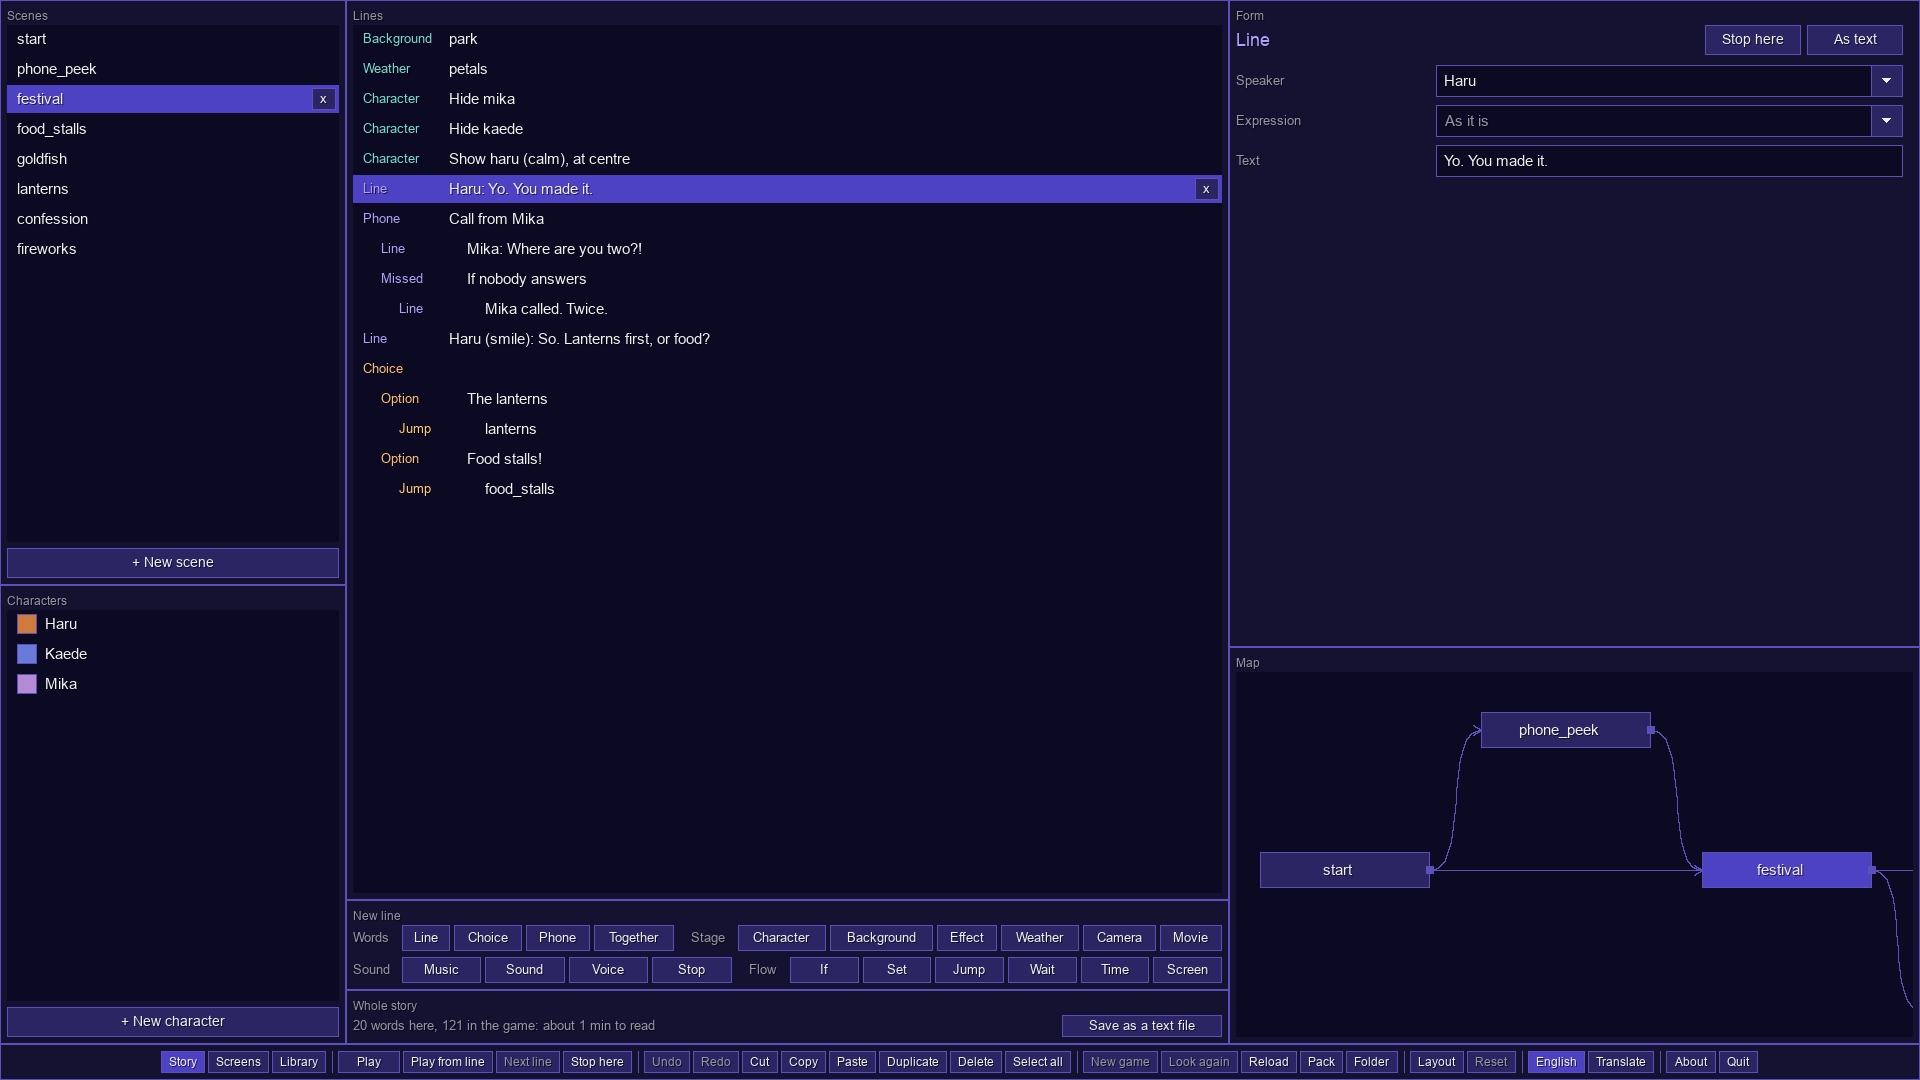
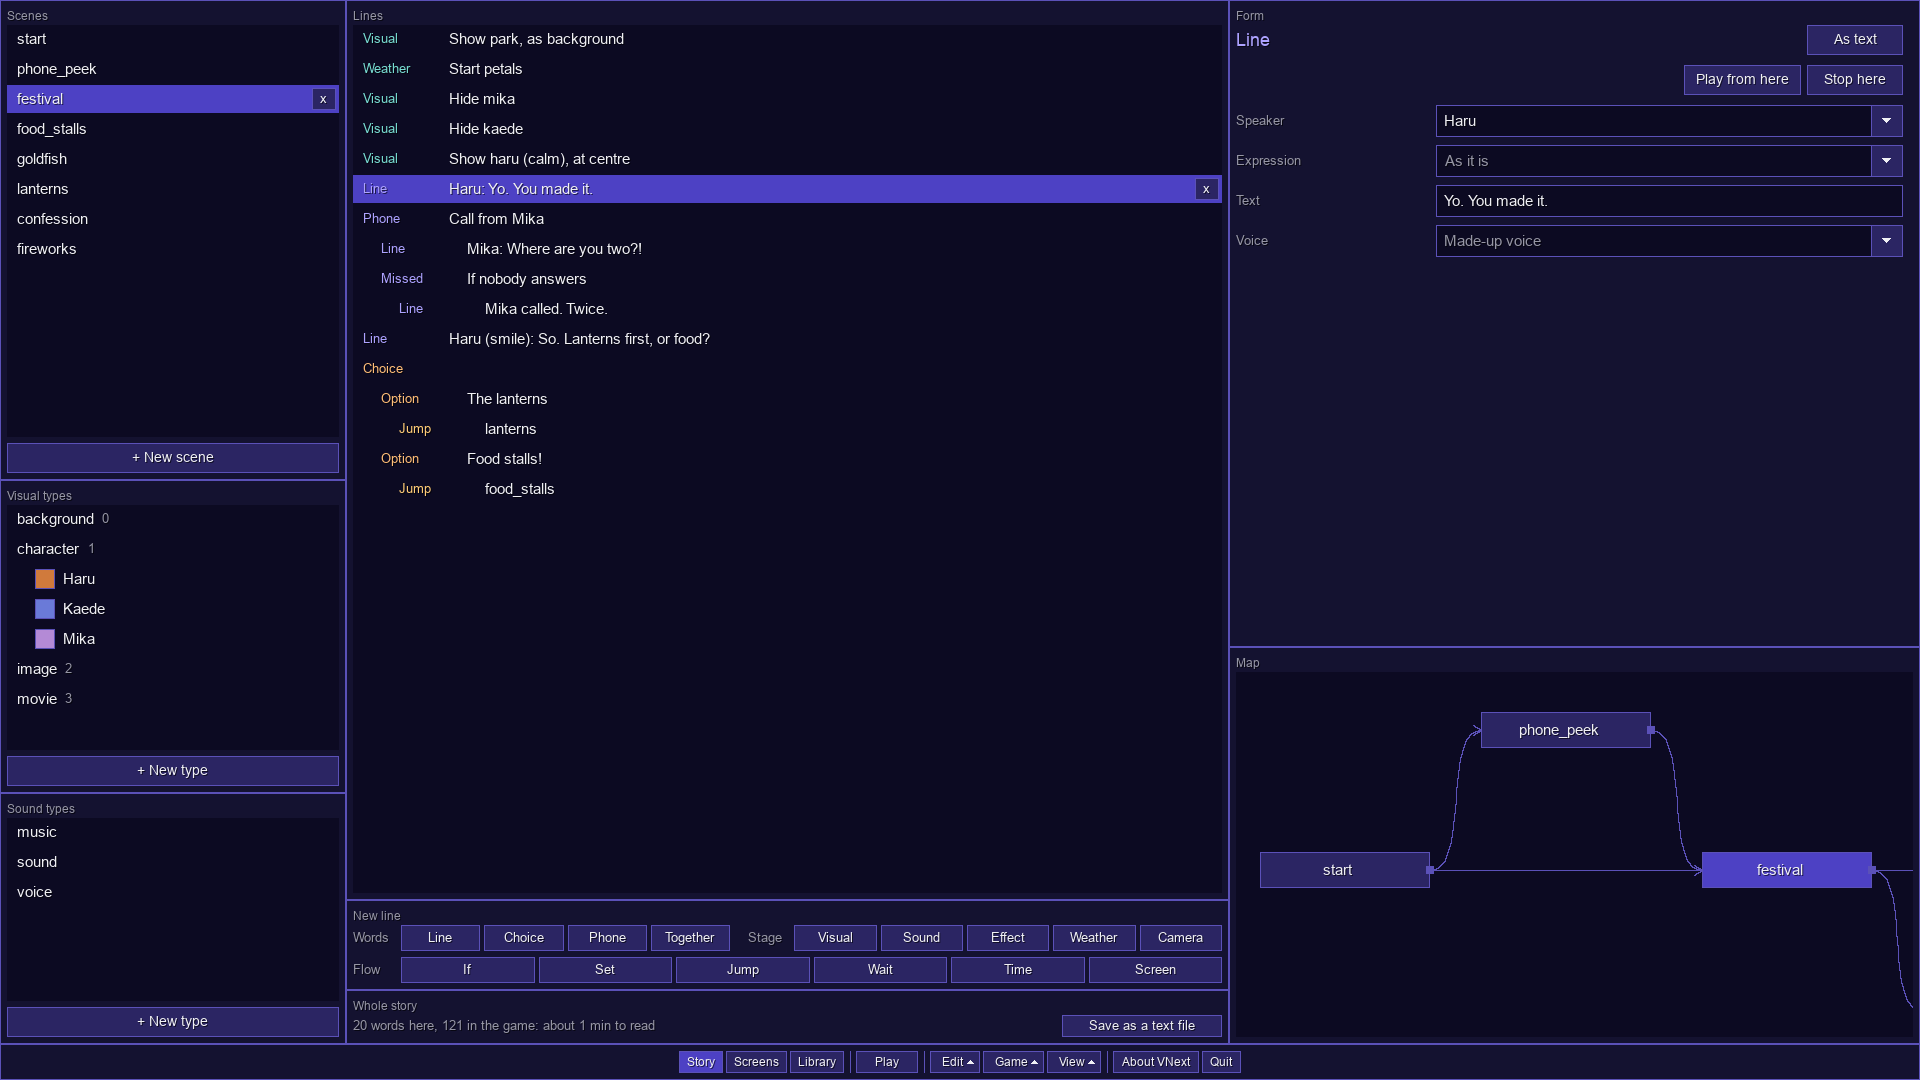
The README for 1.0.0, with its pictures and clips taken again [skip ci]
Export the game in place of Pack, Made to last (games keep working in every
new version), love interests, the phone's apps showing the game's screens,
visuals of every kind on layers, sound types, five kinds of screen part and
screens inside others, the editor's foot and forms, the Download section
naming the other systems' players in each zip, and the 1.0 status. The
pictures and clips show the editor as 1.0 has it (Play from here in the
form, the Visual and Sound types, the title's menu dragged as one box).

diff --git a/README.md b/README.md
@@ -4,35 +4,37 @@
 
 **[Download VNext](https://github.com/zsande/VNext/releases/latest)**: one app, nothing else to install. It's free, also for games you sell.
 
-<p align="center"><img src=".github/make-a-scene.gif" width="100%" alt="The VNext editor: a new line is added with a click, its words are typed in, Mika is picked as the speaker and “surprised” from pictures of her expressions, and Play from line shows her saying it in the park"></p>
+<p align="center"><img src=".github/make-a-scene.gif" width="100%" alt="The VNext editor: a new line is added with a click, its words are typed in, Mika is picked as the speaker and “surprised” from pictures of her expressions, and Play from here shows her saying it in the park"></p>
 
 ## Why it's easy
 
 Most visual novel engines start with a scripting language to learn or a game engine to install. VNext starts with a window you click in.
 
 - **No code, ever.** A scene is a list of lines you add with a click: pick who speaks and their expression from pictures, then type what they say. Menus are pictures of the game you drag things around on. Everything is also saved as plain, readable script files, if you'd rather type.
-- **One app, nothing to set up.** The editor and the game are the same program: no game engine, plugins, Python or command line. Click any line and Play from line shows it in the game; F10 takes you back to the editor.
-- **Menus come ready-made.** A title screen, a pause menu, saving and loading, settings, a history, a confirm question, a phone and more are a click each, already working and all yours to restyle.
-- **A finished game is two files.** Pack puts every picture, sound and line into one file, game.vnext (with licences.txt beside it). Put VNext next to it and that's your game; its players' saves go inside it too.
-- **Everywhere.** Make your game on Windows, macOS or Linux, and the same game.vnext plays on all three, with a mouse, a keyboard, a controller or a touch screen.
+- **One app, nothing to set up.** The editor and the game are the same program: no game engine, plugins, Python or command line. Click any line and Play from here shows it in the game; F10 takes you back to the editor.
+- **Menus come ready-made.** A title screen, a pause menu, saving and loading, settings, a history, a confirm question, a phone and more are a click each, already working and all yours to restyle. A line that needs one brings it: a chat brings the phone.
+- **Export, and it's a game.** Export the game makes a zip for Windows, macOS and Linux, named after your game, each with its player, every picture, sound and line in one file, and the licences. Exported on a Mac, the Mac one is an app with your game's name and icon.
+- **Everywhere.** Make your game on Windows, macOS or Linux and export it for all three: it plays with a mouse, a keyboard, a controller or a touch screen.
+- **Made to last.** Since 1.0, a game made with VNext keeps working in every new version: they only add, never take away.
 - **Free.** Also for games you sell: no royalties, no account and no splash screen of ours (zlib licence).
 
 ## The phone
 
-<p align="center"><img src=".github/phone.gif" width="560" alt="A chat in a VNext game: next to a flustered Kaede, her phone shows her typing a message to Haru and deleting it, sending “hey”, Haru reading it and typing, his “k” and his invitation to the summer festival, her “...fine. if you insist.” and his heart"></p>
+<p align="center"><img src=".github/phone.gif" width="560" alt="A chat in a VNext game: next to a flustered Kaede, her phone shows her sending Haru a message and deleting it, then “hey”, Haru reading it and typing, his “k” and his invitation to the summer festival, her “...fine. if you insist.” and his heart"></p>
 
-Your characters text the player. Their messages type out as they write them, and they send images, stickers and voice messages, react, read what the player sends, and edit or delete what they just said. A choice in a chat shows its options on the phone, and the one picked goes out as the player's message. Calls ring until they're answered or declined, and when nobody picks up, the missed call has a story of its own. Players can text and call characters themselves, a badge on the textbox counts new messages, and controllers buzz when one comes. The phone has a lock screen with a passcode, wallpapers, apps, a clock, a date, signal and battery, all of which the story can change, and it's made of ordinary screen parts, so every bit of it can be restyled.
+Your characters text the player. Their messages type out as they write them, and they send images, stickers and voice messages, react, read what the player sends, and edit or delete what they just said. A choice in a chat shows its options on the phone, and the one picked goes out as the player's message. Calls ring until they're answered or declined, and when nobody picks up, the missed call has a story of its own. Players can text and call characters themselves, a badge on the textbox counts new messages, and controllers buzz when one comes. The phone has a lock screen with a passcode, wallpapers, apps (the game's gallery, music room, saves and settings among them), a clock, a date, signal and battery, all of which the story can change, and it's made of ordinary screen parts, so every bit of it can be restyled.
 
 ## Everything else your story needs
 
 - **Characters** with expressions, eyes that blink and mouths that move as they talk, a face beside the textbox, their own name colour and textbox (speech bubbles too), and made-up "speech" or typing sounds when there's no voice.
 - **Words** that can be bold, italic, underlined, crossed out or coloured, speed up or slow down, pause, appear a letter, a word or a line at a time, carry furigana, show a variable, or unlock a tip that explains them, in a textbox or as whole pages of text, novel style.
 - **Choices** with a time limit, options locked until something is true or marked once picked, and menus that come back after an option. Variables and conditions keep track of everything, and some of them last between plays.
+- **Love interests**: each character's love, raised by the options picked, a Relationships screen with hearts, and endings reached as a scene ends.
 - **Time**: the story's own clock and calendar, the player's real one, or days split into morning, afternoon, evening and night. Backgrounds and the phone follow it, and a calendar shows each new day.
-- **The stage**: backgrounds (images, colours or gradients), characters that come, go and move with animations, effects (greyscale, sepia, invert, blur, pixelate, noise, glitch, and vibration players feel in their controller), weather (rain, snow, petals, leaves, embers), a camera that zooms, pans and shakes, and movies with subtitles.
-- **Sound**: music that fades in, out and from one song to the next and quietens while someone speaks, sounds and loops with captions that say what they are, and a voice file for every line, with the words keeping time with the voice.
-- **Screens**: a title screen, pause menu, saving and loading, settings, a history, a choice menu, questions, the phone, credits, a calendar, a box to type a name into and an on-screen keyboard, all ready-made and yours to restyle. Or build your own from ten kinds of part (text, images, buttons, sliders, boxes to type in, and boxes that hold others: lists of anything, scrolling with scrollbars and fading edges), with styles, drag and drop, and animations made on a timeline.
-- **Extras**: a gallery, a music room, endings, achievements, tips, and a flowchart that takes players back to any choice, each a ready-made screen.
+- **The stage**: visuals of every kind on layers (backgrounds, characters, images, movies, coloured boxes, and kinds of your own), that come, go and move with animations; effects (greyscale, sepia, invert, blur, pixelate, noise, glitch, and vibration players feel in their controller), weather (rain, snow, petals, leaves, embers), a camera that zooms, pans and shakes, and movies with subtitles wherever a picture goes.
+- **Sound**: music that fades in, out and from one song to the next and quietens while someone speaks, sounds and loops of kinds you set up (one at a time or many, looping or not, on the player's music, sound or voice volume), captions that say what they are, and a voice file for every line, with the words keeping time with the voice.
+- **Screens**: a title screen, pause menu, saving and loading, settings, a history, a choice menu, questions, the phone, credits, a calendar, relationships, a box to type a name into and an on-screen keyboard, all ready-made, fitting wide and tall games, and yours to restyle. Or build your own from five kinds of part (texts and visuals that do something when clicked, boxes to type in and sliders, the flowchart, and boxes that hold others: lists of anything, scrolling with scrollbars and fading edges), with styles, drag and drop, screens shown inside other screens, and animations made on a timeline.
+- **Extras**: a gallery and a music room (pictures and songs dropped in their folders join by themselves), endings, achievements, tips, and a flowchart that takes players back to any choice, each a ready-made screen.
 - **For players**: saves with pictures, autosave, quick save and quick load, rewind, skip and auto-play (Menu, Skip, Auto, Q.Save, Q.Load and Phone buttons on the textbox, and keys), a history that replays voices and goes back, and settings for text speed, text size, volumes, high contrast, reading aloud (through VoiceOver, Narrator, NVDA, JAWS or Orca when one is running), captions, time limits, animations, vibration, language and every key and button. Every menu works with a mouse, a keyboard or a controller, with an on-screen keyboard for typing a name. [Accessibility](.github/ACCESSIBILITY.md) says what VNext does for players and its limits.
 - **Every language**: translations, with a spreadsheet for translators, right-to-left scripts, Japanese and Chinese line breaking, and the developer tools themselves can be translated too.
 
@@ -45,13 +47,13 @@ Your characters text the player. Their messages type out as they write them, and
 
 Open VNext in developer mode and you get an editor that fits any window size, in three pages:
 
-- **Story**: scenes and their lines as forms, every kind of line a button away, and the map, where every scene is a box: drag one's dot to another and the story jumps there.
-- **Screens**: the title screen, menus and textbox, designed by dragging their parts around on a picture of the game.
-- **Library**: images, sounds, voices, movies and fonts (drop files on the window to add them), the colours, styles, animations, variables, endings, achievements, tips and controls a game uses (with the variables' values shown as you play), the game's settings, and its translations, with a spreadsheet for translators.
+- **Story**: scenes and their lines as forms, every kind of line a button away, the kinds of visual and sound the game has, and the map, where every scene is a box: drag one's dot to another and the story jumps there.
+- **Screens**: the title screen, menus and textbox, designed by dragging their parts around on a picture of the game; every ready-made screen previewed before it's added.
+- **Library**: visuals (pictures and movies), sounds and voices, and fonts (drop files on the window to add them), the colours, styles, animations, variables, endings, achievements, tips and controls a game uses (with the variables' values shown as you play), the game's settings, and its translations, with a spreadsheet for translators.
 
-Every part of a page can be moved and resized, and the editor's buttons run along its foot: Play, or Play from line to see the game from any line, Undo and Redo, Pack and the rest, with the same keys you know. All of it works with a mouse, the keys or a controller. Mistakes are marked in red and said in plain words, and every change can be undone.
+Every part of a page can be moved and resized. The form of a scene or a line plays it: Play scene, or Play from here to see the game from that line. Along the editor's foot run its pages, Play, and the Edit, Game and View menus (Undo and Redo, Export the game and the rest), with the same keys you know. All of it works with a mouse, the keys or a controller. Every box says in plain words what it sets, lists show what you point at (animations play, styles and screens show), mistakes are marked in red and said in plain words, and every change can be undone.
 
-<p align="center"><img src=".github/design-a-screen.gif" width="100%" alt="The Screens page: the title screen's New game button is dragged to a new place on the preview and renamed Start the story in its form, and Play shows the title screen with it there"></p>
+<p align="center"><img src=".github/design-a-screen.gif" width="100%" alt="The Screens page: the title screen's menu is dragged lower on the preview, its New game button renamed Start the story in its form, and Play shows the title screen with it there"></p>
 
 <p align="center">
   <img src=".github/editor-story.png" width="48%" alt="The Story page: a scene's lines, and the form of the chosen one: Haru saying “Yo. You made it.”">
@@ -66,11 +68,11 @@ The idea, the design and the direction of VNext are mine. Every line of its code
 
 ## Download
 
-Get VNext from GitHub's [Releases page](https://github.com/zsande/VNext/releases): a zip for Windows, macOS or Linux, with the player and licences.txt (on Linux, the player is an AppImage). VNext isn't signed by Apple or Microsoft yet, so the first time, macOS asks you to allow it in System Settings → Privacy & Security (Open Anyway), and Windows says it protected your PC (More info, then Run anyway). The [code signing policy](CODE_SIGNING.md) says how the players are signed.
+Get VNext from GitHub's [Releases page](https://github.com/zsande/VNext/releases): a zip for Windows, macOS or Linux, with the player (on Linux, an AppImage), licences.txt, and the other two systems' players, so Export the game makes all three without downloading anything. VNext isn't signed by Apple or Microsoft yet, so the first time, macOS asks you to allow it in System Settings → Privacy & Security (Open Anyway), and Windows says it protected your PC (More info, then Run anyway). The [code signing policy](CODE_SIGNING.md) says how the players are signed.
 
 ## Status
 
-VNext is made and tested on macOS. The Windows and Linux versions are new: GitHub builds and starts them on every change, but they have had less real use. VNext is in active development and changes quickly.
+VNext 1.0 is here, and from now on games keep working: new versions add features, and nothing a game uses is renamed or removed. VNext is made and tested on macOS; the Windows and Linux versions are built and started by GitHub on every change, but they have had less real use.
 
 ## Building from source
 
